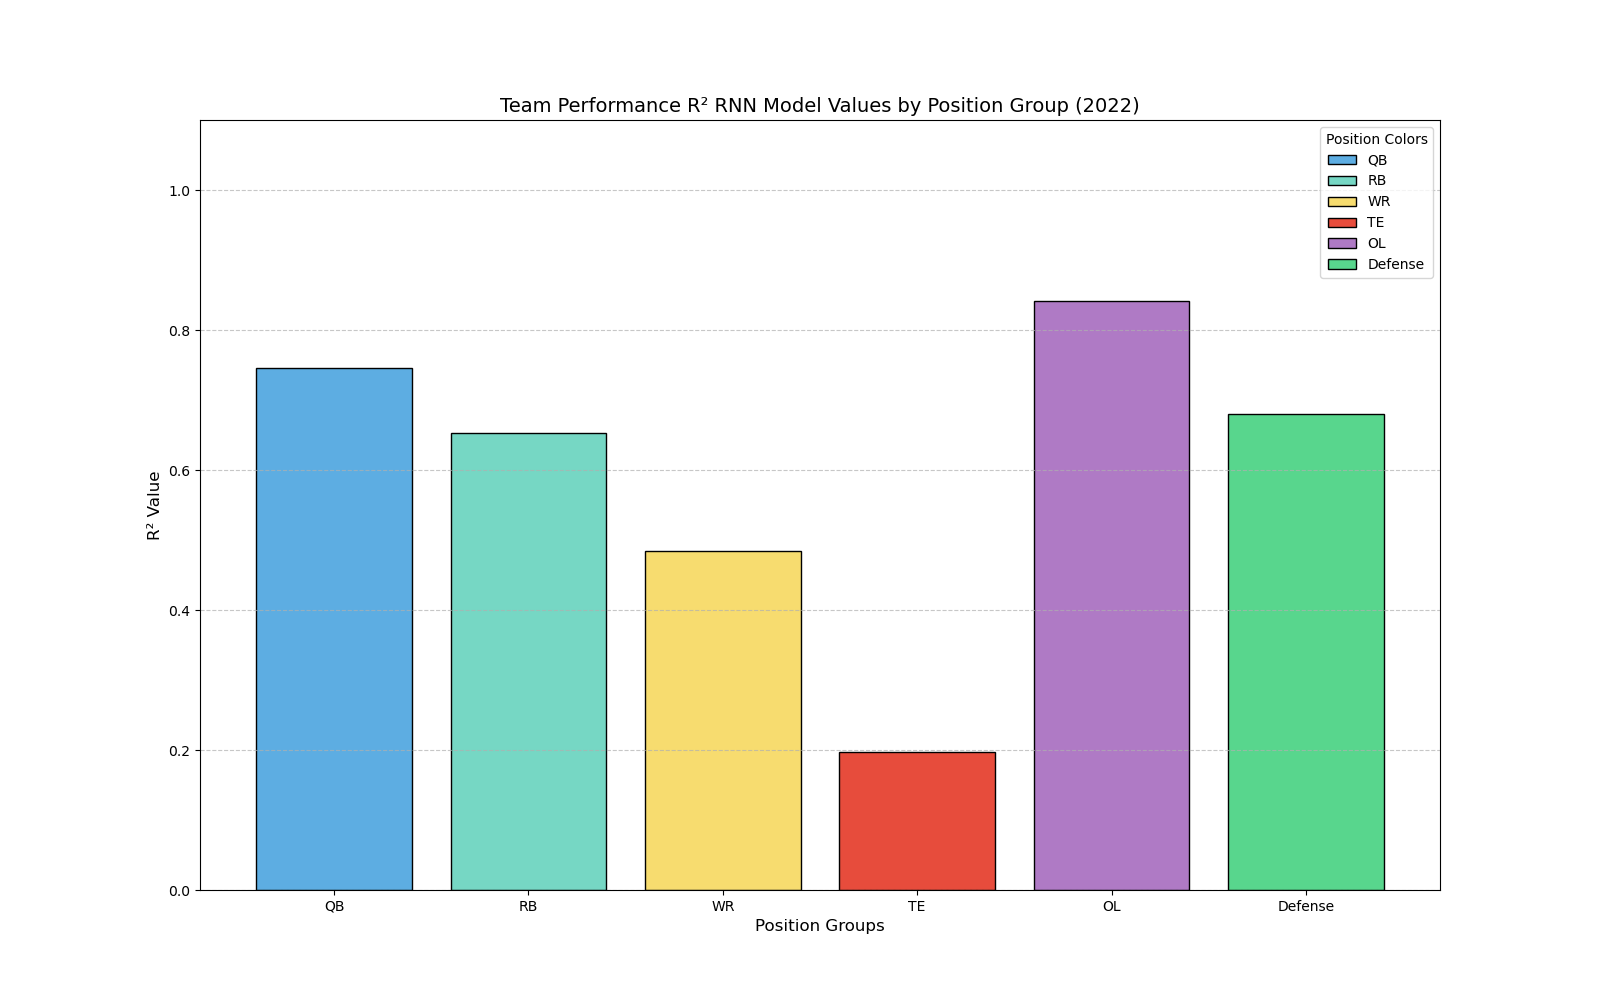
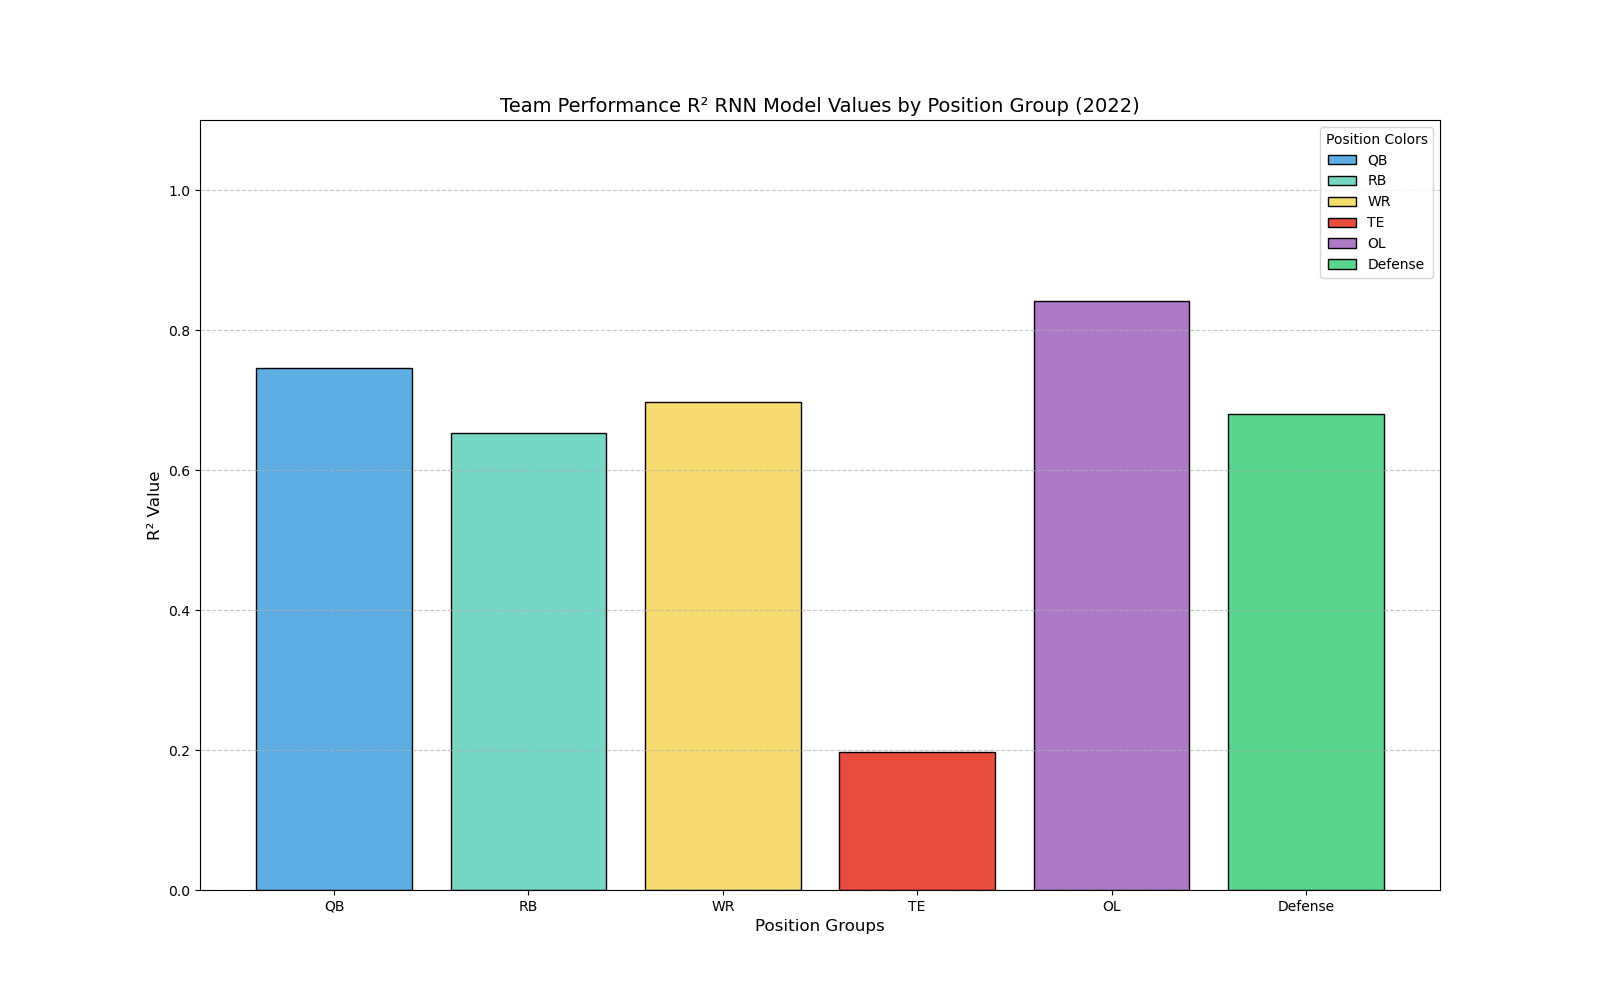
fixed my issue

Changed region(s): [[0.375, 0.403, 0.5, 0.558]]

diff --git a/rnn_rsquare_graph_team.py b/rnn_rsquare_graph_team.py
@@ -5,8 +5,7 @@ r_square_val_dict = {
 
     "RB": 0.6524,
 
-    "WR": 0.4846,
-
+    "WR": 0.6969,
     "TE": 0.19778399995219131, # check with Suhaas later
 
     "OL": 0.8418,
